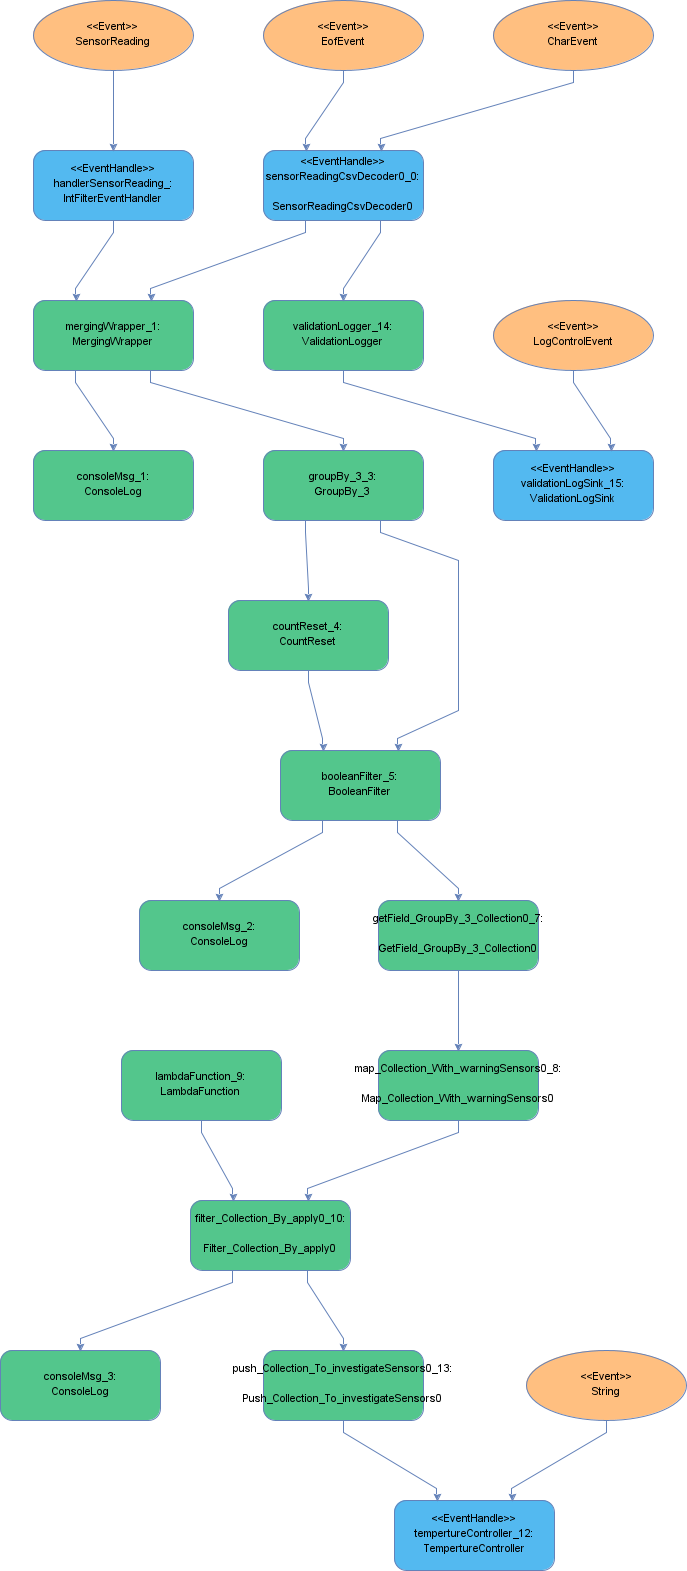
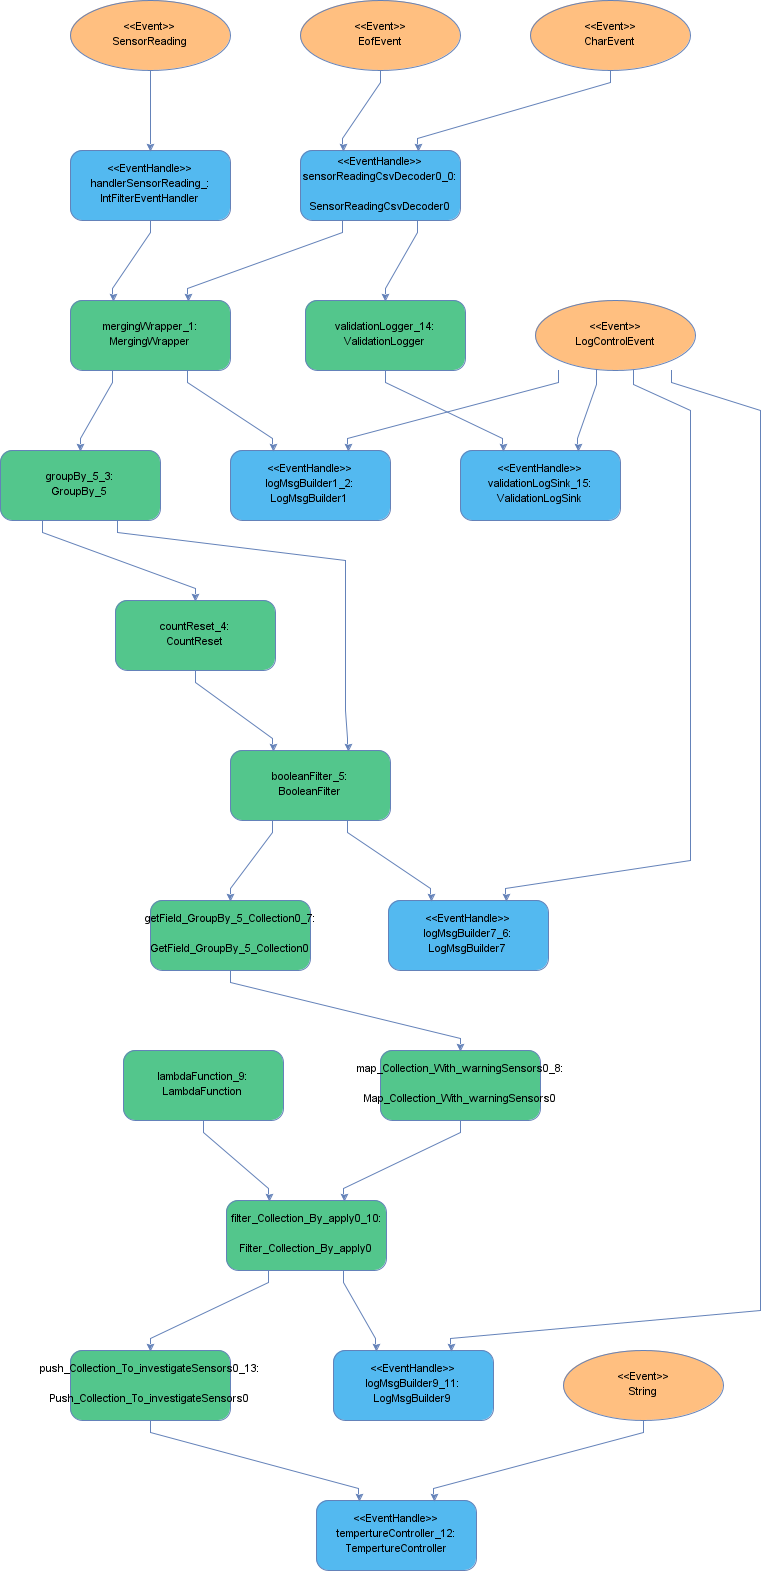
rename method from console to log on Wrapper and other runtime classes add primitive helper methods for Argument removed unused templates
Rationalised sliding and tumbling windows, added incremental tumbling windows

regenerated solutions examples

diff --git a/examples/futext-examples/src/main/java/com/fluxtion/ext/text/example/window/GroupBySensors.java b/examples/futext-examples/src/main/java/com/fluxtion/ext/text/example/window/GroupBySensors.java
@@ -24,7 +24,7 @@ import static com.fluxtion.ext.streaming.api.MergingWrapper.merge;
 import com.fluxtion.ext.streaming.api.Wrapper;
 import com.fluxtion.ext.streaming.api.group.GroupBy;
 import static com.fluxtion.ext.streaming.builder.factory.EventSelect.select;
-import static com.fluxtion.ext.streaming.builder.factory.WindowBuilder.tumble;
+import static com.fluxtion.ext.streaming.builder.factory.WindowBuilder.tumbleIncremental;
 import static com.fluxtion.ext.streaming.builder.group.Group.groupBy;
 import static com.fluxtion.ext.text.api.util.StringDriver.streamChars;
 import static com.fluxtion.ext.text.builder.csv.CsvMarshallerBuilder.csvMarshaller;
@@ -63,8 +63,8 @@ import lombok.NoArgsConstructor;
  * <li>Stateful pre-defined calculations
  * <li>User supplied arbitrary mapping calculation
  * <li>User lambda functions for filtering
- * <li>Logging to console for debug while developing
- * <li>Integrating a user instance into the execution graph
+ * <li>Logging to log for debug while developing
+ <li>Integrating a user instance into the execution graph
  * <li>Sending data events to a user instance via onEvent
  * <li>Propogating updates only when tests are valid
  * <li>Pushing data to a user instance, removing the pull from user code.
@@ -104,7 +104,7 @@ public class GroupBySensors {
     public static void buildSensorProcessor(SEPConfig cfg) {
         //merge csv marshller and SensorReading instance events
         Wrapper<SensorReading> sensorData = merge(select(SensorReading.class),
-                csvMarshaller(SensorReading.class).build()).console(" -> \t");
+                csvMarshaller(SensorReading.class).build()).log(" -> \t");
         //group by sensor and calculate max, average
         GroupBy<SensorReadingDerived> sensors = groupBy(sensorData, SensorReading::getSensorName, SensorReadingDerived.class)
                 .init(SensorReading::getSensorName, SensorReadingDerived::setSensorName)
@@ -112,12 +112,16 @@ public class GroupBySensors {
                 .avg(SensorReading::getValue, SensorReadingDerived::setAverage)
                 .build();
         //tumble window (count=3), warning if avg > 60 && max > 90 in the window for a sensor
-        tumble(sensors, 3).console("readings in window : ", GroupBy::collection)
+        Wrapper<GroupBy<SensorReadingDerived>> tumbleIncremental = tumbleIncremental(sensors, 3);
+        
+        
+        tumbleIncremental(sensors, 3).log("readings in window : ", GroupBy::collection)
                 .get(GroupBy::collection)
                 .map(GroupBySensors::warningSensors)
                 .filter(c -> c.size() > 0)
-                .console("**** WARNING **** sensors to investigate:")
+                .log("**** WARNING **** sensors to investigate:")
                 .push(new TempertureController()::investigateSensors);
+            ;
     }
 
     public static Collection<String> warningSensors(Collection<SensorReadingDerived> readings) {
